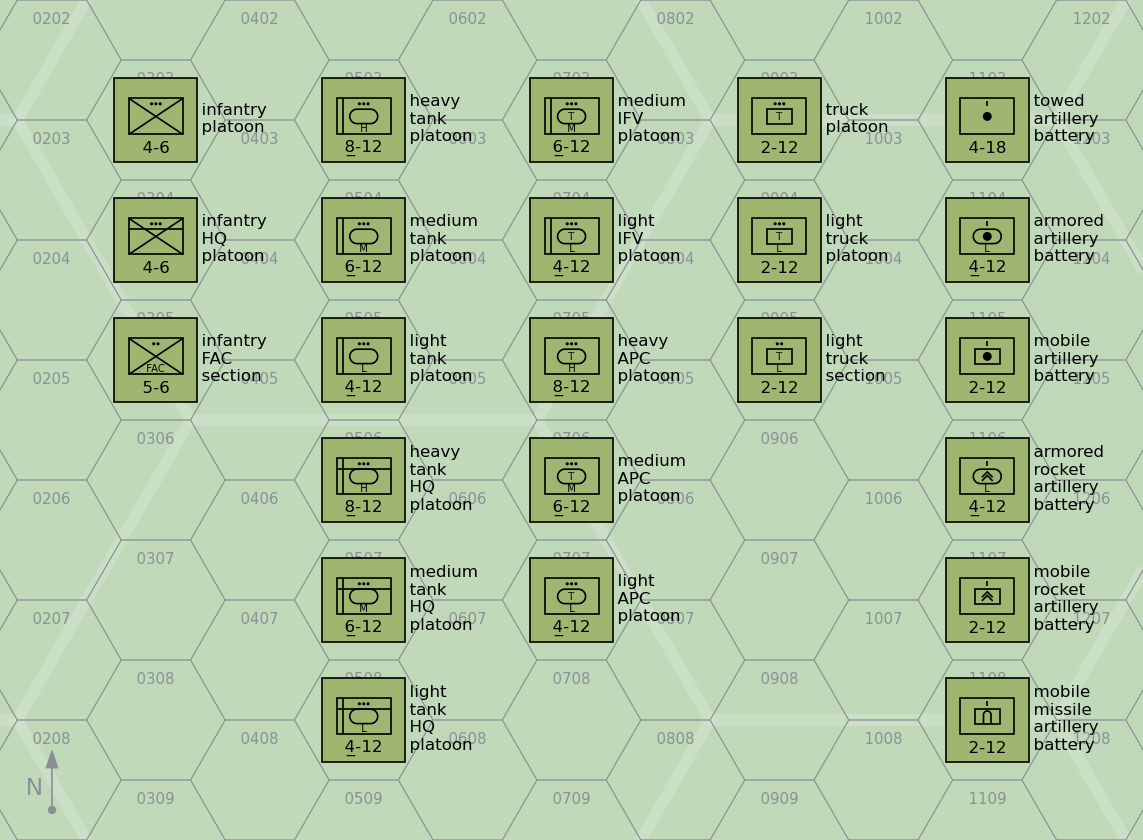
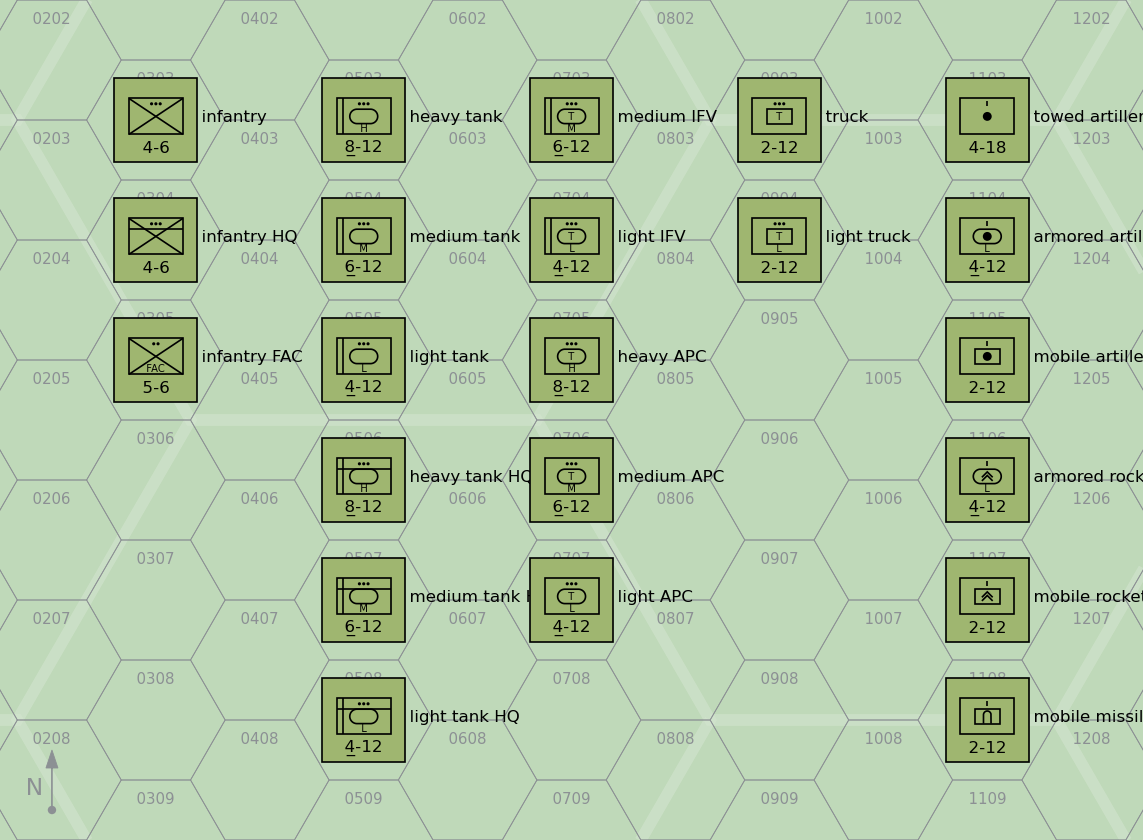
Write air-defense text outside symbol

diff --git a/src/glass/draw.py b/src/glass/draw.py
@@ -3194,8 +3194,6 @@ def _drawgroundunitincanvas(
                 drawlowertext(text)
             elif counter:
                 drawtoptext(text)
-            else:
-                drawrighttext(text)
         if counter:
             drawbottomtext("%s-%d" % (defensestrength, sightingrange))
     elif sighted:
@@ -3259,9 +3257,24 @@ def _drawgroundunitincanvas(
             dxname = 0.5 * groundunitsymboldx
             dxdamage = 0.5 * groundunitsymboldx
         dyname = +0.0
-        dydamage = -0.5 * groundunitsymboldy
+        dydamage = -0.35 * groundunitsymboldy
+        dytext = +0.35 * groundunitsymboldy
         if not killed:
             if x >= x0:
+                if not counter and "air-defense" in symbols and identified:
+                    _drawtextincanvas(
+                        x,
+                        y,
+                        text,
+                        facing=90,
+                        dx=+dxname - 0.05,
+                        dy=dytext,
+                        size=annotationtextsize,
+                        textcolor=annotationtextcolor,
+                        alignment="left",
+                        verticalalignment="center_baseline",
+                        zorder=zorder,
+                    )
                 _drawtextincanvas(
                     x,
                     y,
@@ -3285,10 +3298,24 @@ def _drawgroundunitincanvas(
                     size=annotationtextsize,
                     textcolor=annotationtextcolor,
                     alignment="left",
-                    verticalalignment="bottom",
+                    verticalalignment="center_baseline",
                     zorder=zorder,
                 )
             else:
+                if not counter and "air-defense" in symbols and identified:
+                    _drawtextincanvas(
+                        x,
+                        y,
+                        text,
+                        facing=90,
+                        dx=-dxname + 0.05,
+                        dy=dytext,
+                        size=annotationtextsize,
+                        textcolor=annotationtextcolor,
+                        alignment="right",
+                        verticalalignment="center_baseline",
+                        zorder=zorder,
+                    )
                 _drawtextincanvas(
                     x,
                     y,
@@ -3299,6 +3326,7 @@ def _drawgroundunitincanvas(
                     size=annotationtextsize,
                     textcolor=annotationtextcolor,
                     alignment="right",
+                    verticalalignment="center_baseline",
                     zorder=zorder,
                 )
                 _drawtextincanvas(
@@ -3311,7 +3339,7 @@ def _drawgroundunitincanvas(
                     size=annotationtextsize,
                     textcolor=annotationtextcolor,
                     alignment="right",
-                    verticalalignment="bottom",
+                    verticalalignment="center_baseline",
                     zorder=zorder,
                 )
 
